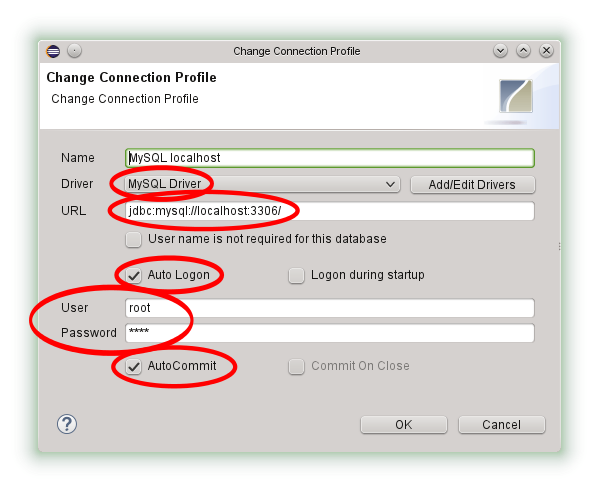
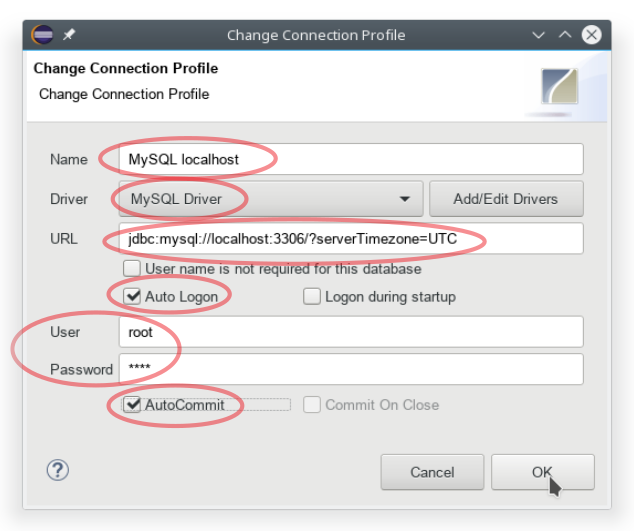
Anpassungen an neue MySQL Version

diff --git a/inf/SEKII/01_Vorbereitung/01_Eclipse.tex b/inf/SEKII/01_Vorbereitung/01_Eclipse.tex
@@ -617,7 +617,7 @@ MySQL-Java-Connectors}\label{mysql-connector-installation}
 
 Zunächst musst du den Connector herunter laden:
 
-\url{https://www.dropbox.com/s/tasduzleda46k5q/mysql-connector-java-5.1.45-bin.jar?dl=0}
+\url{https://www.dropbox.com/s/kjolp95yfpu6fyu/mysql-connector-java-8.0.11.jar?dl=0}
 
 (Sobald wir im Unterricht bei SQL angekommen sind, wirst du diese Datei auch in
 unserem Kurs-Repository finden. Und bis dahin brauchst du dich um die
@@ -633,7 +633,7 @@ $\rightarrow$ im folgenden Dialog die gewünschte Datei auswählen $\rightarrow$
 Rechtsklick auf deinen Projekt-Ordner im Package-Explorer $\rightarrow$
 \myPMI{Build Path} $\rightarrow$ \myPMI{Configure Build Path \ldots}
 $\rightarrow$ Wähle den Reiter \myPMI{Libraries} $\rightarrow$ \myPMI{Add JARs
-\ldots} $\rightarrow$ wähle \myFile{mysql-connector-java-5.1.45-bin.jar} in
+\ldots} $\rightarrow$ wähle \myFile{mysql-connector-java-8.0.11.jar} in
 deinem Projekt $\rightarrow$ \myPMI{OK} $\rightarrow$ \myPMI{OK}.
 
 \subsection{Plugin „SQL-Explorer“ installieren und konfigurieren}
@@ -662,7 +662,7 @@ $\rightarrow$ Name: \myUserInput{MySQL localhost} $\rightarrow$ \myPMI{Add/Edit
 Drivers} $\rightarrow$ \myPMI{SQL Explorer} auffalten $\rightarrow$ \myPMI{JDBC
 Drivers} $\rightarrow$ Doppelklick auf  \myPMI{MySQL Driver} $\rightarrow$
 \myPMI{Extra Class Path} $\rightarrow$ \myPMI{Add JARs \ldots} $\rightarrow$
-Den Pfad zu \myFile{mysql-connector-java-5.1.45-bin.jar} (oder neuere Version)
+Den Pfad zu \myFile{mysql-connector-java-8.0.11.jar} (oder neuere Version)
 auf der lokalen Platte (vermutlich in einem Unter-Ordner des workspace-Ordners)
 auswählen.
 

diff --git a/inf/SEKII/37_JavaSQL_Datenbankzugriffe/01_Datenbankzugriffe.tex b/inf/SEKII/37_JavaSQL_Datenbankzugriffe/01_Datenbankzugriffe.tex
@@ -44,7 +44,8 @@ Verbindung erfolgreich aufgebaut wurde, wird ein Objekt vom Typ
 
 \begin{lstlisting}
 Connection conn = DriverManager.getConnection(
-             "jdbc:mysql://localhost/MeineDatenbank", "root", "root");
+        "jdbc:mysql://localhost/MeineDatenbank?serverTimezone=UTC&useSSL=false",
+        "root", "root");
 \end{lstlisting}
 
 Um Kommandos an die Datenbank schicken zu können, muss man sich anschließend vom
@@ -168,7 +169,8 @@ public class Tierdatenbank extends JFrame {
   public void datenbankAbfrage() {
     try (
       Connection conn = DriverManager.getConnection(
-              "jdbc:mysql://localhost/haustier", "root", "root");
+              "jdbc:mysql://localhost/haustier?serverTimezone=UTC&useSSL=false",
+              "root", "root"); 
       Statement stmt = conn.createStatement()
     ) {
       ResultSet rs = stmt.executeQuery("SELECT name, tierart FROM tier");

diff --git a/inf/SEKII/32_SQL_Einfuehrung/02_Installationsanleitung.tex b/inf/SEKII/32_SQL_Einfuehrung/02_Installationsanleitung.tex
@@ -7,7 +7,7 @@
 Im Kursverzeichnis findest du im Ordner \myFile{32\_SQL\_Einfuehrung} und dort
 im Ordner \myFile{Installationsdateien}\footnote{oder alternativ auch hier:
 \url{https://dev.mysql.com/downloads/installer/}} die Datei
-\myFile{mysql-installer-web-community-5.7.19.0.msi}. Dabei handelt es sich um
+\myFile{mysql-installer-web-community-8.0.11.0.msi}. Dabei handelt es sich um
 ein kleines Windows-Programm welches den Download und die Installation der
 eigentlichen MySQL Programme bequem erledigt.
 
@@ -29,7 +29,7 @@ Konfiguration von Eclipse).
 Im selben Ordner wie zuvor den MySQL-Installer findest auch den MySQL
 JDBC-Connectors:
 
-\myFile{mysql-connector-java-5.1.45-bin.jar}
+\myFile{mysql-connector-java-8.0.11.jar}
 
 Dieses Java Archiv muss in euer eigenes Java-Projekt in Eclipse eingebunden
 werden, damit ihr später aus eueren Java-Programmen heraus auf den MySQL-Server
